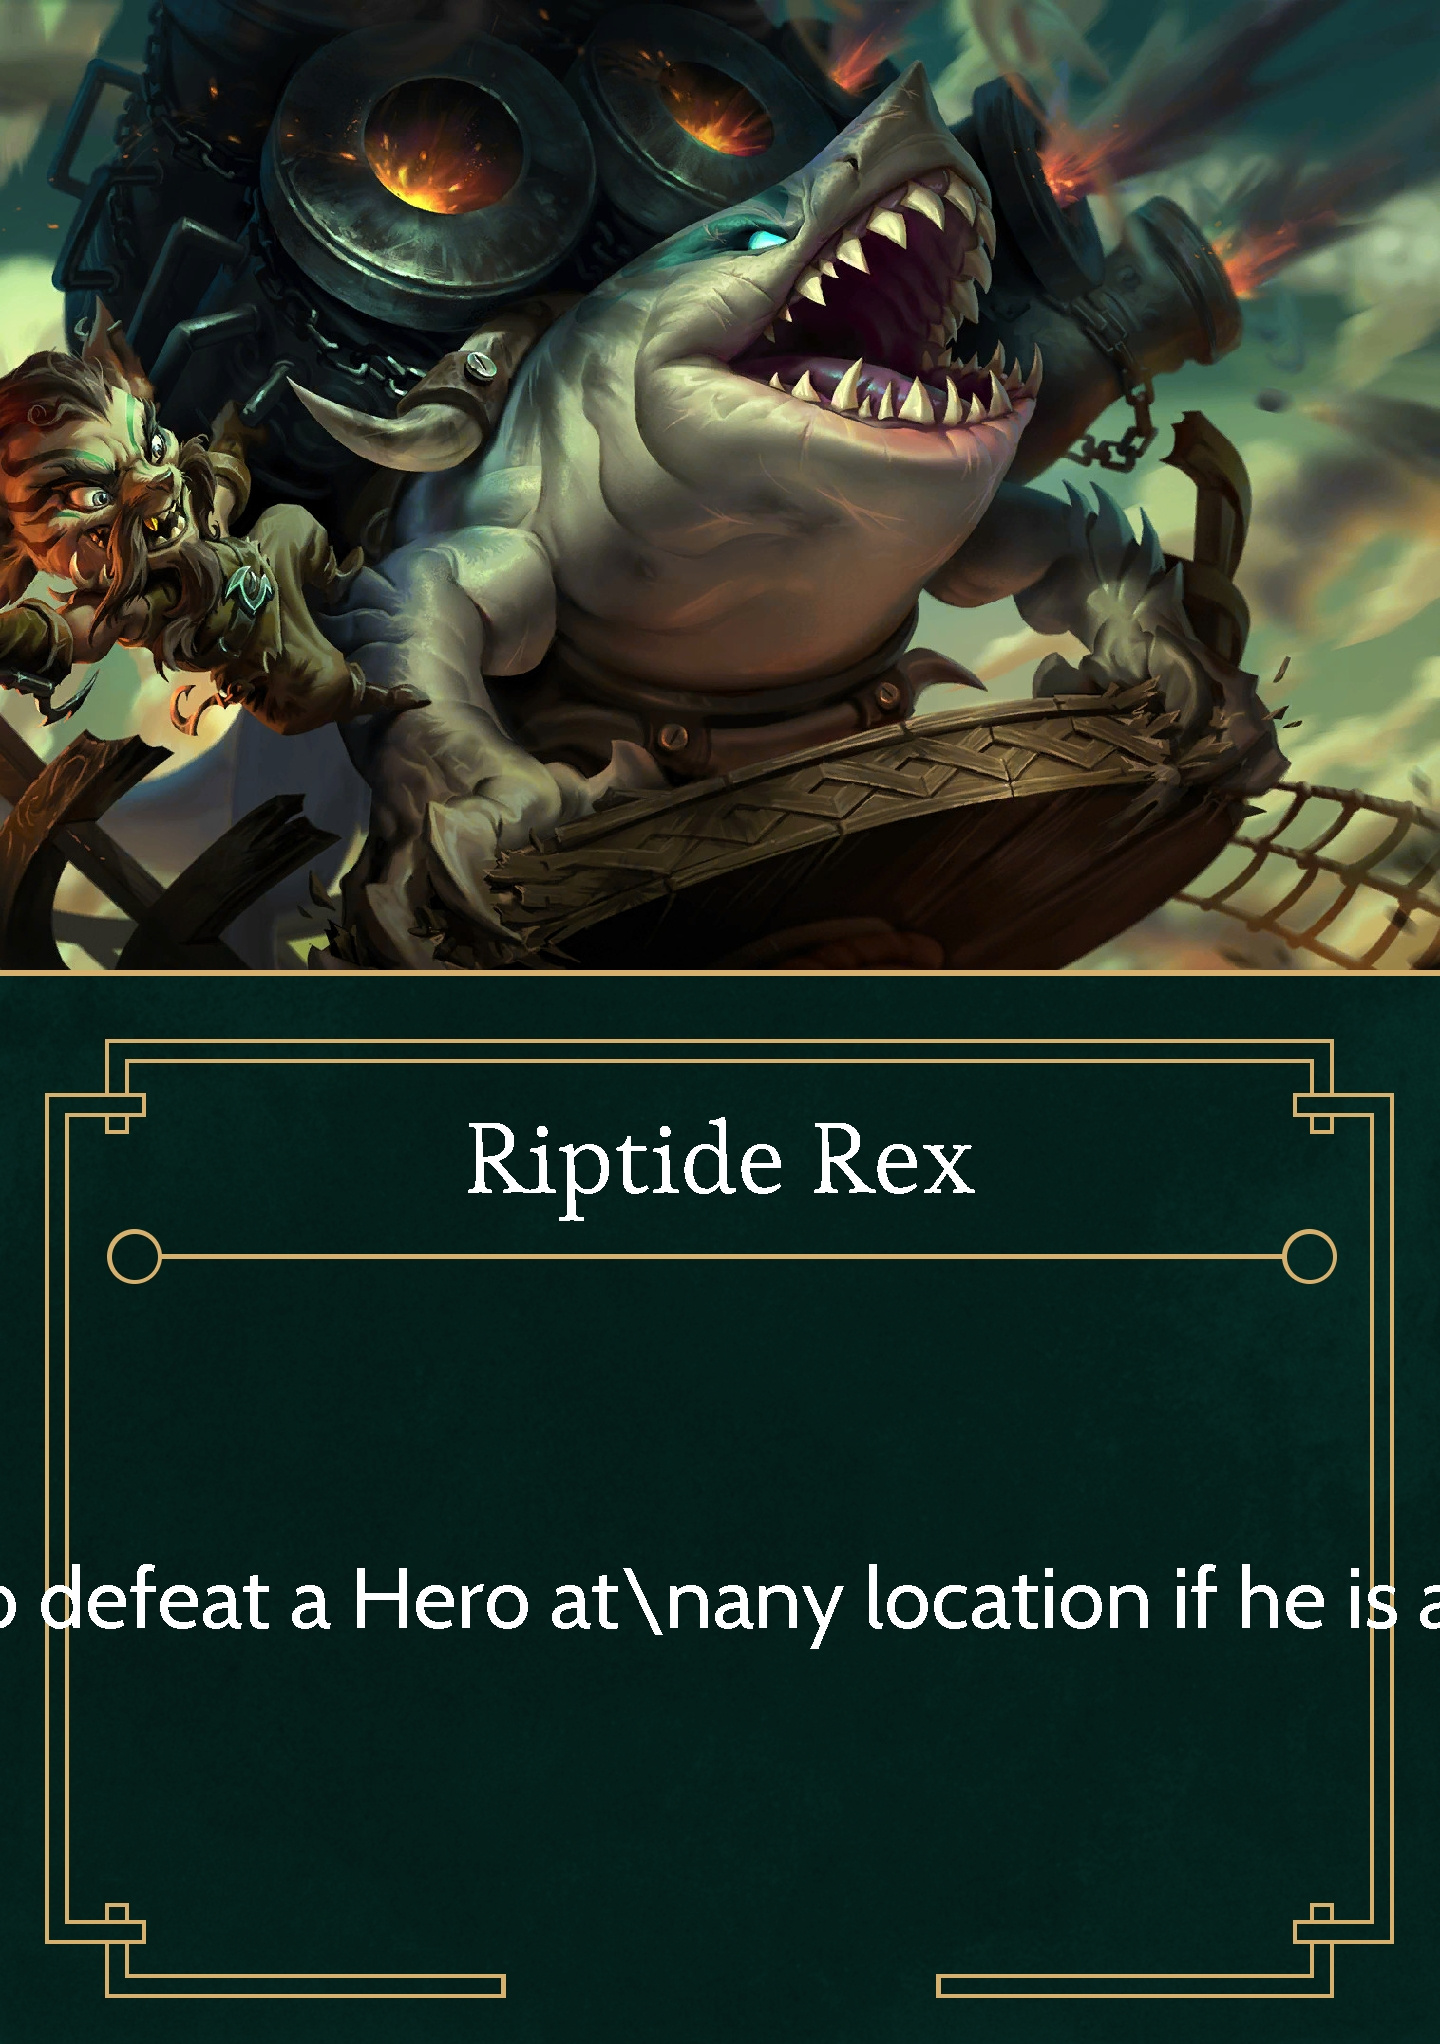
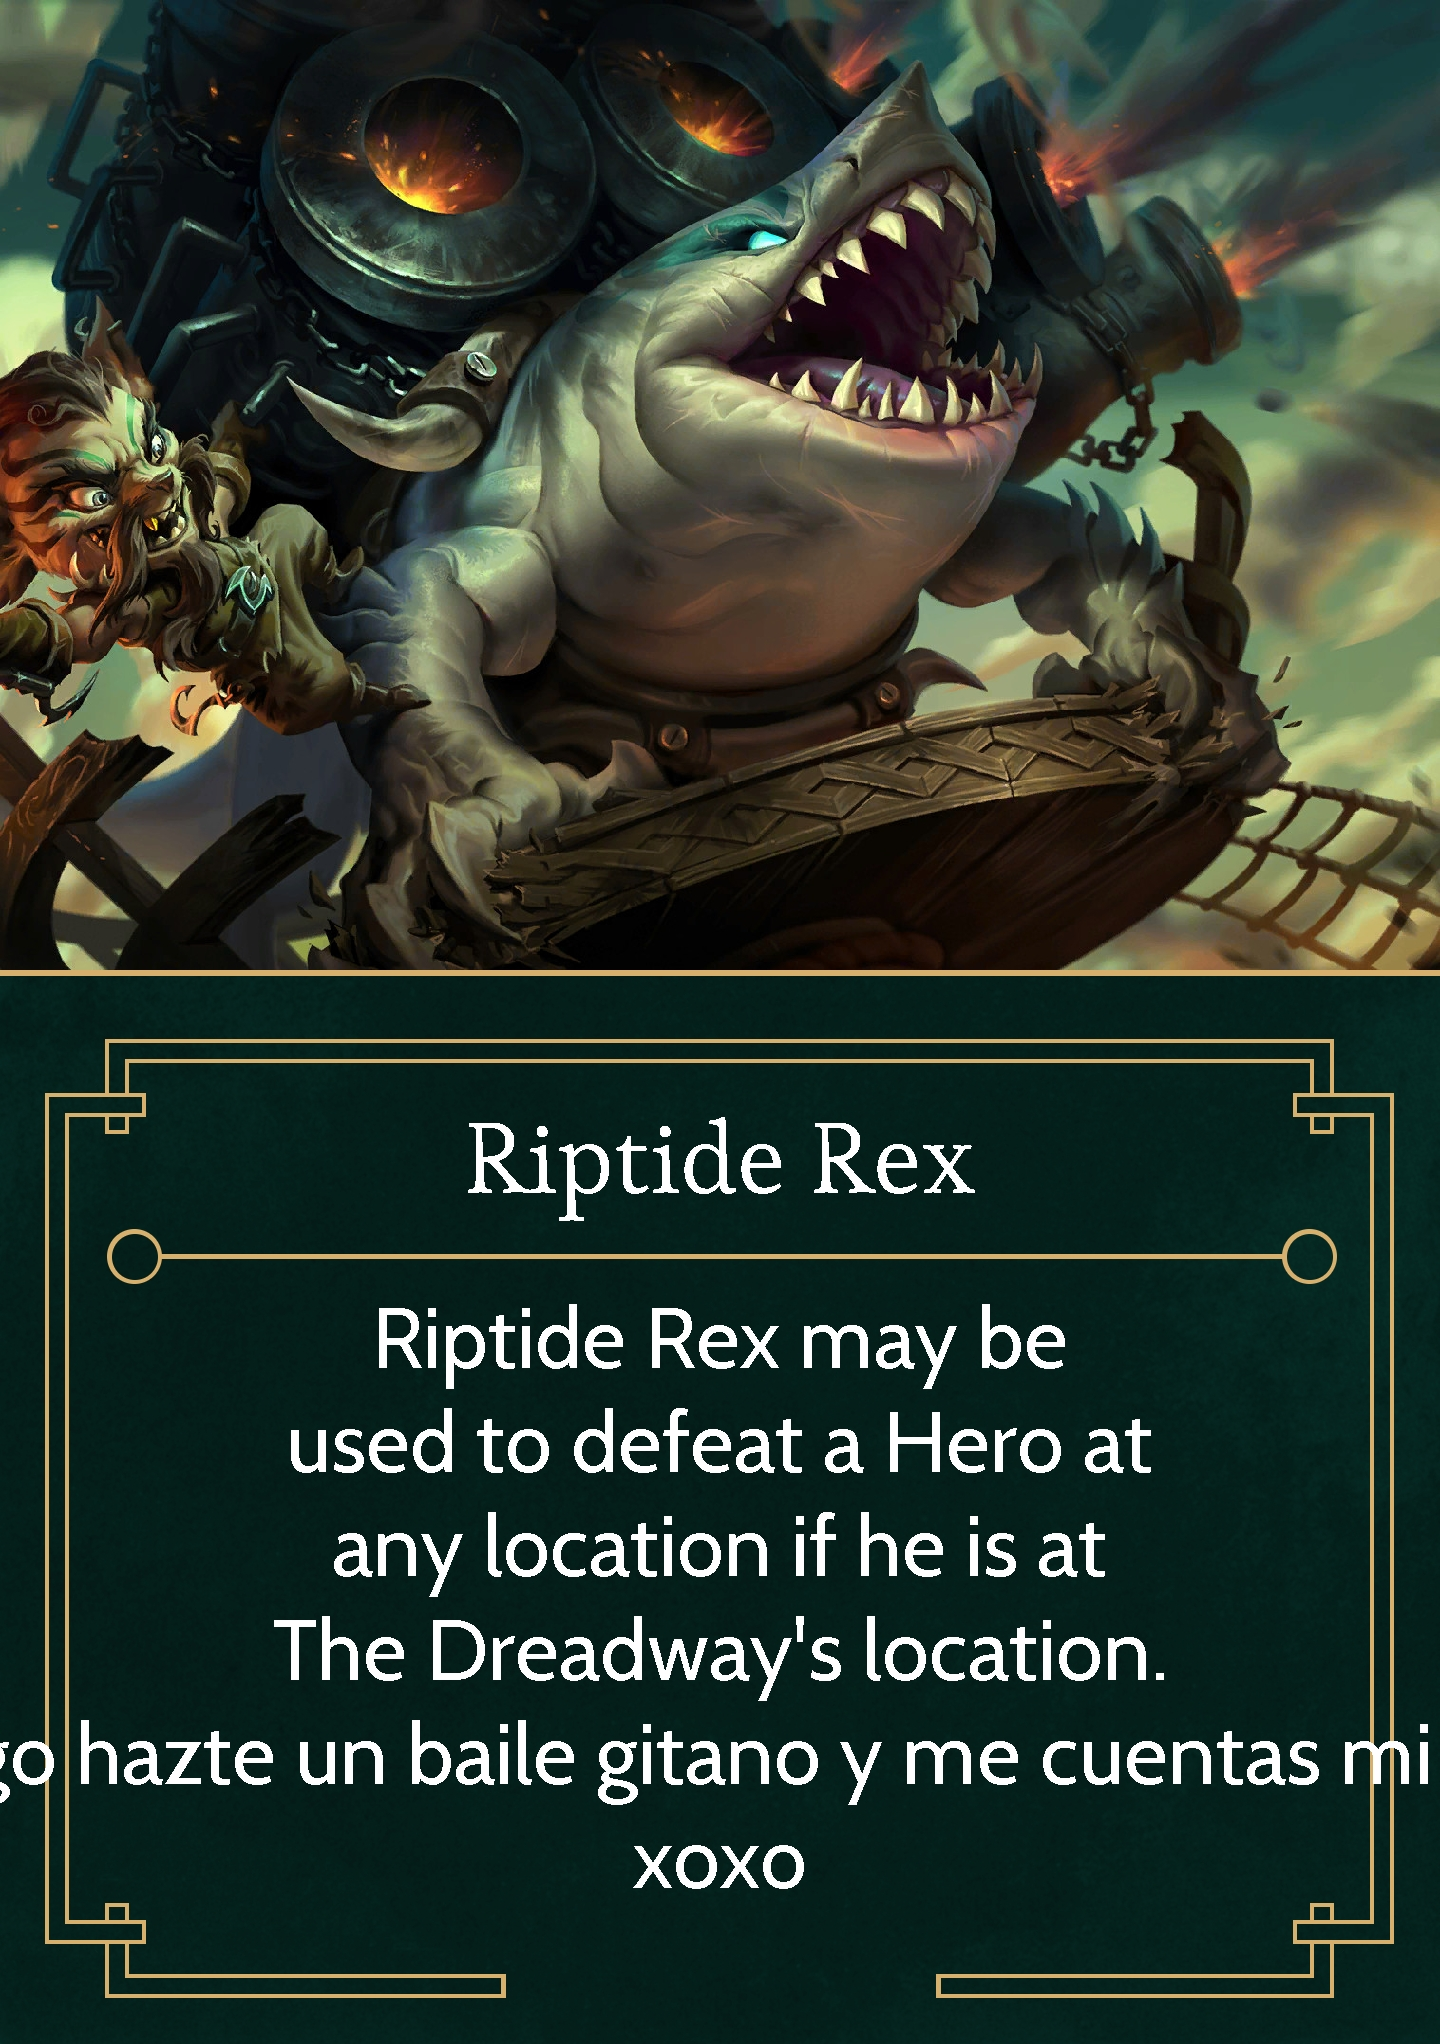
New algorithm to place text centered with line breaks

Changed region(s): [[0.0, 0.6473, 1.0, 0.9247], [0.0, 0.8322, 0.1875, 0.8938], [0.9375, 0.8322, 1.0, 0.8938]]

diff --git a/Card Photocopier/src/es/cristichi/card_generator/CardGenerator.java b/Card Photocopier/src/es/cristichi/card_generator/CardGenerator.java
@@ -56,13 +56,13 @@ public class CardGenerator {
 		fontCornerAtts.put(TextAttribute.SIZE, 120);
 		CARD_CORNER_VALUES = new Font(fontCornerAtts);
 	}
-	
+
 	private ArrayList<String> warnings;
 
 	public GeneratorReturn generate(Configuration config, MainInfoFrame frame, File openDocumentFile, File imagesFolder,
 			File resultsFolder, OdsStructure odsStructure, Sheet sheet, ArrayList<CardInfo> usefulCards,
 			HashMap<String, ExtraDeckInfo> extraDecks) throws Exception {
-		warnings= new ArrayList<>(3);
+		warnings = new ArrayList<>(3);
 
 		if (!config.contains(ConfigValue.CONFIG_TEMPLATES)) {
 			config.setValue(ConfigValue.CONFIG_TEMPLATES, ConfigValue.CONFIG_TEMPLATES.getDefaultValue());
@@ -125,18 +125,18 @@ public class CardGenerator {
 			baseG.drawImage(art, 0, 0, ART_SIZE.width, ART_SIZE.height, null);
 		} catch (FileNotFoundException e) {
 			e.printStackTrace();
-			warnings.add("Error finding the art for "+card.name);
+			warnings.add("Error finding the art for " + card.name);
 		} catch (Exception e) {
 			e.printStackTrace();
-			warnings.add("Error reading the art for "+card.name);
+			warnings.add("Error reading the art for " + card.name);
 		}
 
 		BufferedImage deck = DeckTemplate.getTemplateFile(templatesFolder, TemplateType.DECK, card.deck);
 		baseG.drawImage(deck, 0, 0, base.getWidth(), base.getHeight(), null);
-		
-		drawCenteredString(baseG, card.name, NAME_COORDS, CARD_NAME_FONT);
-		
-		drawCenteredString(baseG, card.ability, TEXT_COORDS, CARD_TEXT_MAX);
+
+		drawCenteredMultilineString(baseG, card.name, NAME_COORDS, CARD_NAME_FONT);
+
+		drawCenteredMultilineString(baseG, card.ability, TEXT_COORDS, CARD_TEXT_MAX);
 
 		baseG.dispose();
 
@@ -146,29 +146,33 @@ public class CardGenerator {
 		graphics.dispose();
 		return rgbCopy;
 	}
-	
+
 	/**
-	 * Draw a String centered in the middle of a Rectangle.
+	 * Draw a String centered in the middle of a Rectangle. TODO: Fix for multiple lines
 	 *
-	 * @param g The Graphics instance.
-	 * @param text The String to draw.
-	 * @param textBox The Rectangle to center the text in.
+	 * @param graphics The Graphics instance.
+	 * @param text     The String to draw. It requires to manually set the line jumps.
+	 * @param textBox  The Rectangle to center the text in.
 	 */
-	public static void drawCenteredString(Graphics2D g, String text, Rectangle textBox, Font font) {
-	    // Get the FontMetrics
-	    FontMetrics metrics = g.getFontMetrics(font);
-	    g.setFont(font);
-	    int lineHeight = metrics.getHeight();
-	    for (String line : text.split("\n")) {
-		    // Determine the X coordinate for the text
-		    int x = textBox.x + (textBox.width - metrics.stringWidth(line)) / 2;
-		    // Determine the Y coordinate for the text (note we add the ascent, as in java 2d 0 is top of the screen)
-		    int y = textBox.y + ((textBox.height - metrics.getHeight()) / 2) + metrics.getAscent();
-		    // Set the font
-		    // Draw the String
-		    g.drawString(line, x, y);
-		    
-		    y += lineHeight;
-	    }
+	public static void drawCenteredMultilineString(Graphics2D graphics, String text, Rectangle textBox, Font font) {
+		// Get the FontMetrics
+		FontMetrics metrics = graphics.getFontMetrics(font);
+		graphics.setFont(font);
+		int lineHeight = metrics.getHeight();
+		String[] lines = text.split("\n");
+		int totalHeight = lineHeight * lines.length;
+		int lineIndex = 0;
+		for (String line : lines) {
+			// Determine the X coordinate for the text
+			int x = textBox.x + (textBox.width - metrics.stringWidth(line)) / 2;
+			// Determine the Y coordinate for the text (note we add the ascent, as in java 2d 0 is top of the screen)
+			int y = textBox.y + ((textBox.height - metrics.getHeight()) / 2) + metrics.getAscent()
+					+ (lineIndex - lines.length / 2) * lineHeight + (lines.length==1?0:lineHeight/2);
+			// Set the font
+			// Draw the String
+			graphics.drawString(line, x, y);
+
+			lineIndex++;
+		}
 	}
 }
